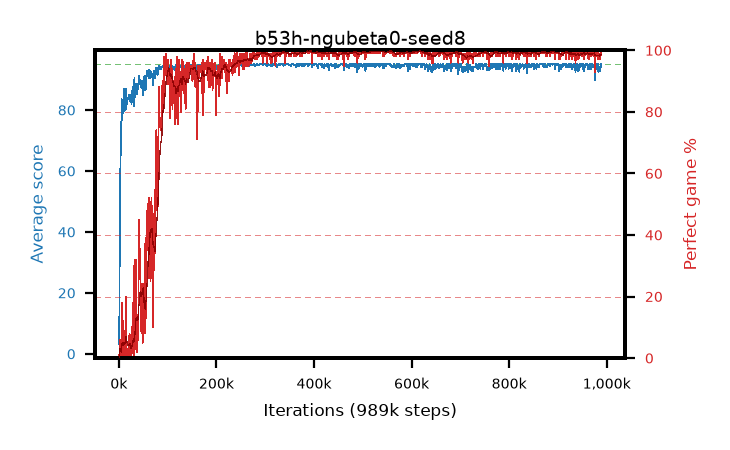
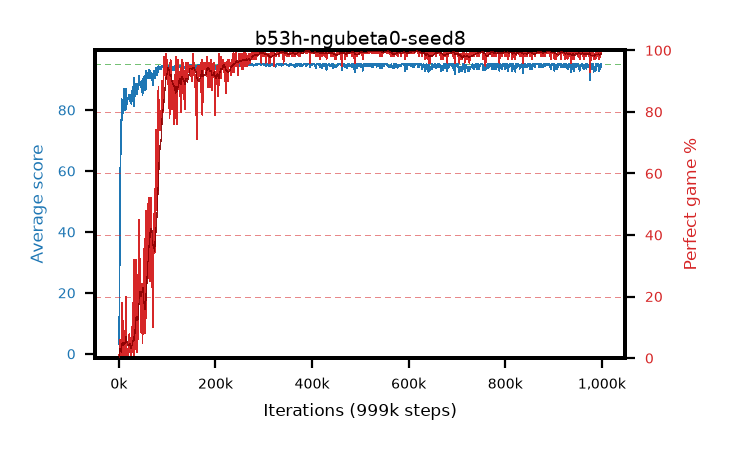
live pictures of 4 arm(s)

diff --git a/results/b53h-ngubeta0-seed8/b53h-ngubeta0-seed8.md b/results/b53h-ngubeta0-seed8/b53h-ngubeta0-seed8.md
@@ -1,6 +1,6 @@
 # b53h-ngubeta0-seed8
 
-step **989,000** · 989 evals · trailing **94.1** · peak **94.92** @356,000 · sef **90.5** · best30 **99.7** @539,000
+step **999,000** · 999 evals · trailing **94.05** · peak **94.92** @356,000 · sef **90.6** · best30 **99.7** @539,000
 
 ## Config
 
@@ -80,15 +80,15 @@ step **989,000** · 989 evals · trailing **94.1** · peak **94.92** @356,000 ·
 | 2000 | 50.19 | 26.7 | 2.0 | 95.0 | 51.185 | 6.0 | 0.4 |
 | 3000 | 57.71 | 37.03 | 27.0 | 95.0 | 54.481 | 2.0 | 0.4 |
 | ... | ... | ... | ... | ... | ... | ... | ... |
-| 978000 | 93.53 | 94.27 | 20.0 | 95.0 | 190.229 | 98.0 | 0.4 |
-| 979000 | 95.0 | 94.27 | 95.0 | 95.0 | 193.787 | 100.0 | 0.4 |
-| 980000 | 95.0 | 94.27 | 95.0 | 95.0 | 193.778 | 100.0 | 0.4 |
-| 981000 | 93.53 | 94.22 | 19.0 | 95.0 | 190.226 | 98.0 | 0.4 |
-| 982000 | 95.0 | 94.27 | 95.0 | 95.0 | 193.785 | 100.0 | 0.4 |
-| 983000 | 92.54 | 94.22 | 11.0 | 95.0 | 188.215 | 97.0 | 0.4 |
-| 984000 | 94.24 | 94.26 | 19.0 | 95.0 | 191.99 | 99.0 | 0.4 |
-| 985000 | 93.34 | 94.22 | 8.0 | 95.0 | 190.04 | 98.0 | 0.4 |
-| 986000 | 93.51 | 94.2 | 20.0 | 95.0 | 190.217 | 98.0 | 0.4 |
-| 987000 | 92.83 | 94.13 | 20.0 | 95.0 | 188.495 | 97.0 | 0.4 |
 | 988000 | 95.0 | 94.13 | 95.0 | 95.0 | 193.787 | 100.0 | 0.4 |
 | 989000 | 94.27 | 94.1 | 22.0 | 95.0 | 192.022 | 99.0 | 0.4 |
+| 990000 | 95.0 | 94.1 | 95.0 | 95.0 | 193.78 | 100.0 | 0.4 |
+| 991000 | 94.26 | 94.08 | 21.0 | 95.0 | 192.003 | 99.0 | 0.4 |
+| 992000 | 95.0 | 94.13 | 95.0 | 95.0 | 193.771 | 100.0 | 0.4 |
+| 993000 | 94.28 | 94.14 | 26.0 | 95.0 | 191.032 | 98.0 | 0.4 |
+| 994000 | 92.77 | 94.11 | 17.0 | 95.0 | 188.438 | 97.0 | 0.4 |
+| 995000 | 92.78 | 94.06 | 16.0 | 95.0 | 188.446 | 97.0 | 0.4 |
+| 996000 | 94.33 | 94.03 | 28.0 | 95.0 | 192.07 | 99.0 | 0.4 |
+| 997000 | 95.0 | 94.03 | 95.0 | 95.0 | 193.778 | 100.0 | 0.4 |
+| 998000 | 94.11 | 94.05 | 6.0 | 95.0 | 191.854 | 99.0 | 0.4 |
+| 999000 | 95.0 | 94.05 | 95.0 | 95.0 | 193.778 | 100.0 | 0.4 |
